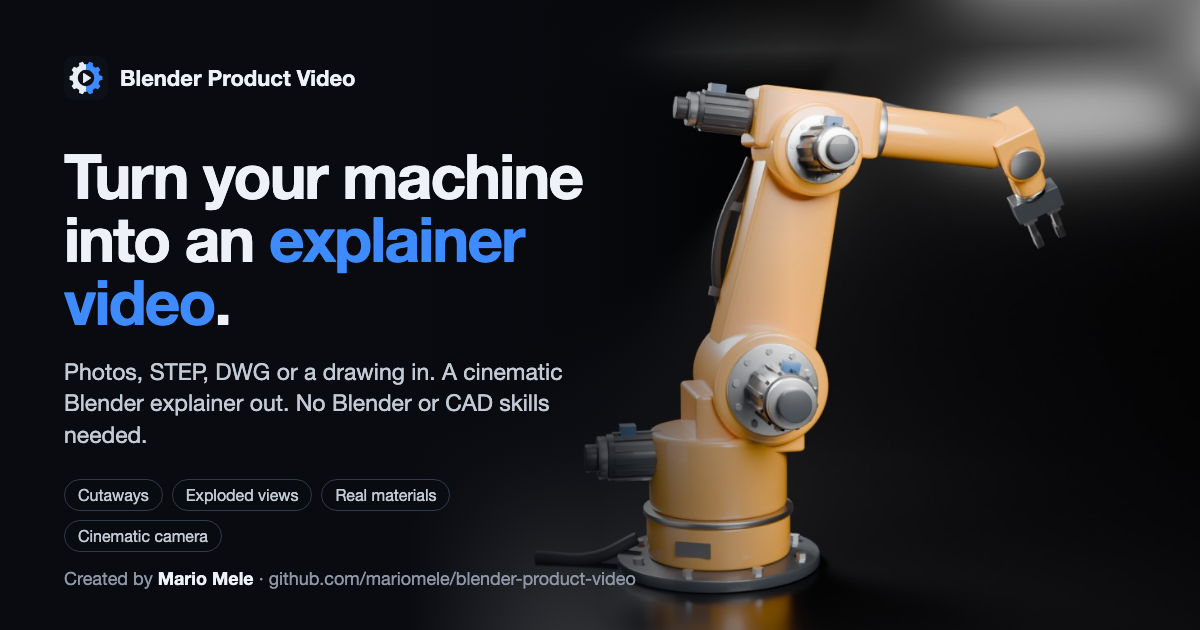
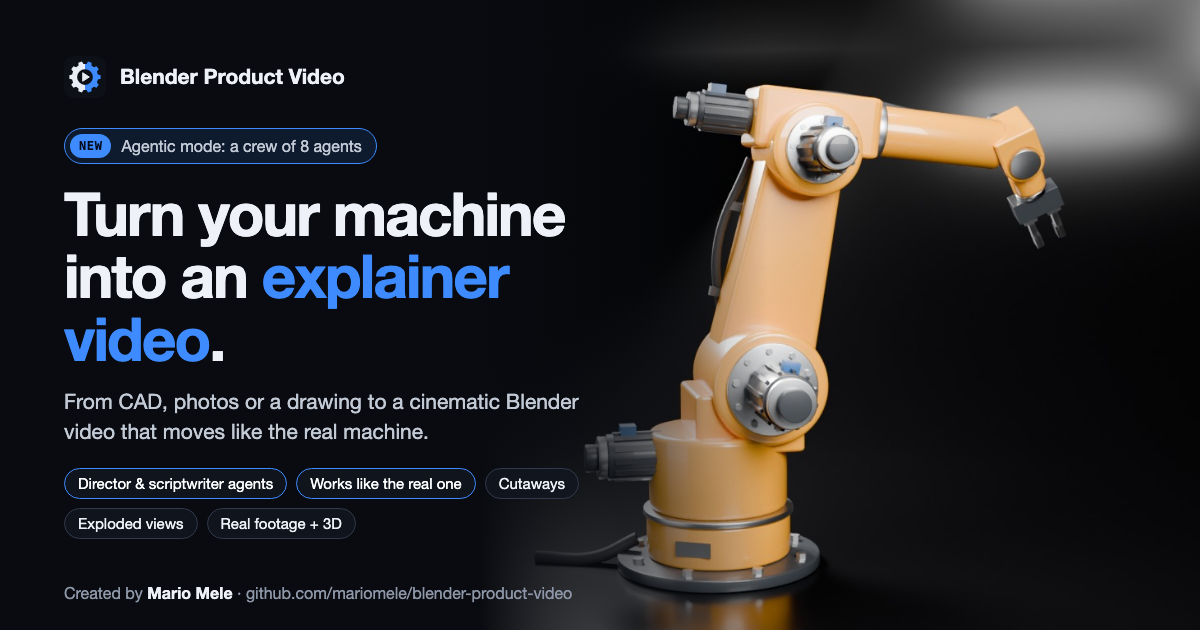
Anteprima social: modalità agentica e funzionamento

diff --git a/docs/index.html b/docs/index.html
@@ -15,11 +15,11 @@
 <meta property="og:title" content="Blender Product Video: turn your machine into an explainer video">
 <meta property="og:description" content="Photos, STEP, DWG or a drawing in. A Blender explainer out: cutaways, exploded views, real materials, cinematic camera moves, stress analyses, AI worlds. New agentic mode: a crew of eight agents, from director and scriptwriter to the checkers. All vibe coding, no Blender or CAD skills needed. · Trasforma la tua macchina in un video explainer.">
 <meta property="og:url" content="https://mariomele.github.io/blender-product-video/">
-<meta property="og:image" content="https://mariomele.github.io/blender-product-video/assets/og.png?v=3">
+<meta property="og:image" content="https://mariomele.github.io/blender-product-video/assets/og.png?v=4">
 <meta property="og:image:width" content="1200">
 <meta property="og:image:height" content="630">
 <meta name="twitter:card" content="summary_large_image">
-<meta name="twitter:image" content="https://mariomele.github.io/blender-product-video/assets/og.png?v=3">
+<meta name="twitter:image" content="https://mariomele.github.io/blender-product-video/assets/og.png?v=4">
 <link rel="preconnect" href="https://fonts.googleapis.com">
 <link rel="preconnect" href="https://fonts.gstatic.com" crossorigin>
 <link href="https://fonts.googleapis.com/css2?family=Geist:wght@400;500;600;700;800&family=Geist+Mono:wght@400;500;600&display=swap" rel="stylesheet">
